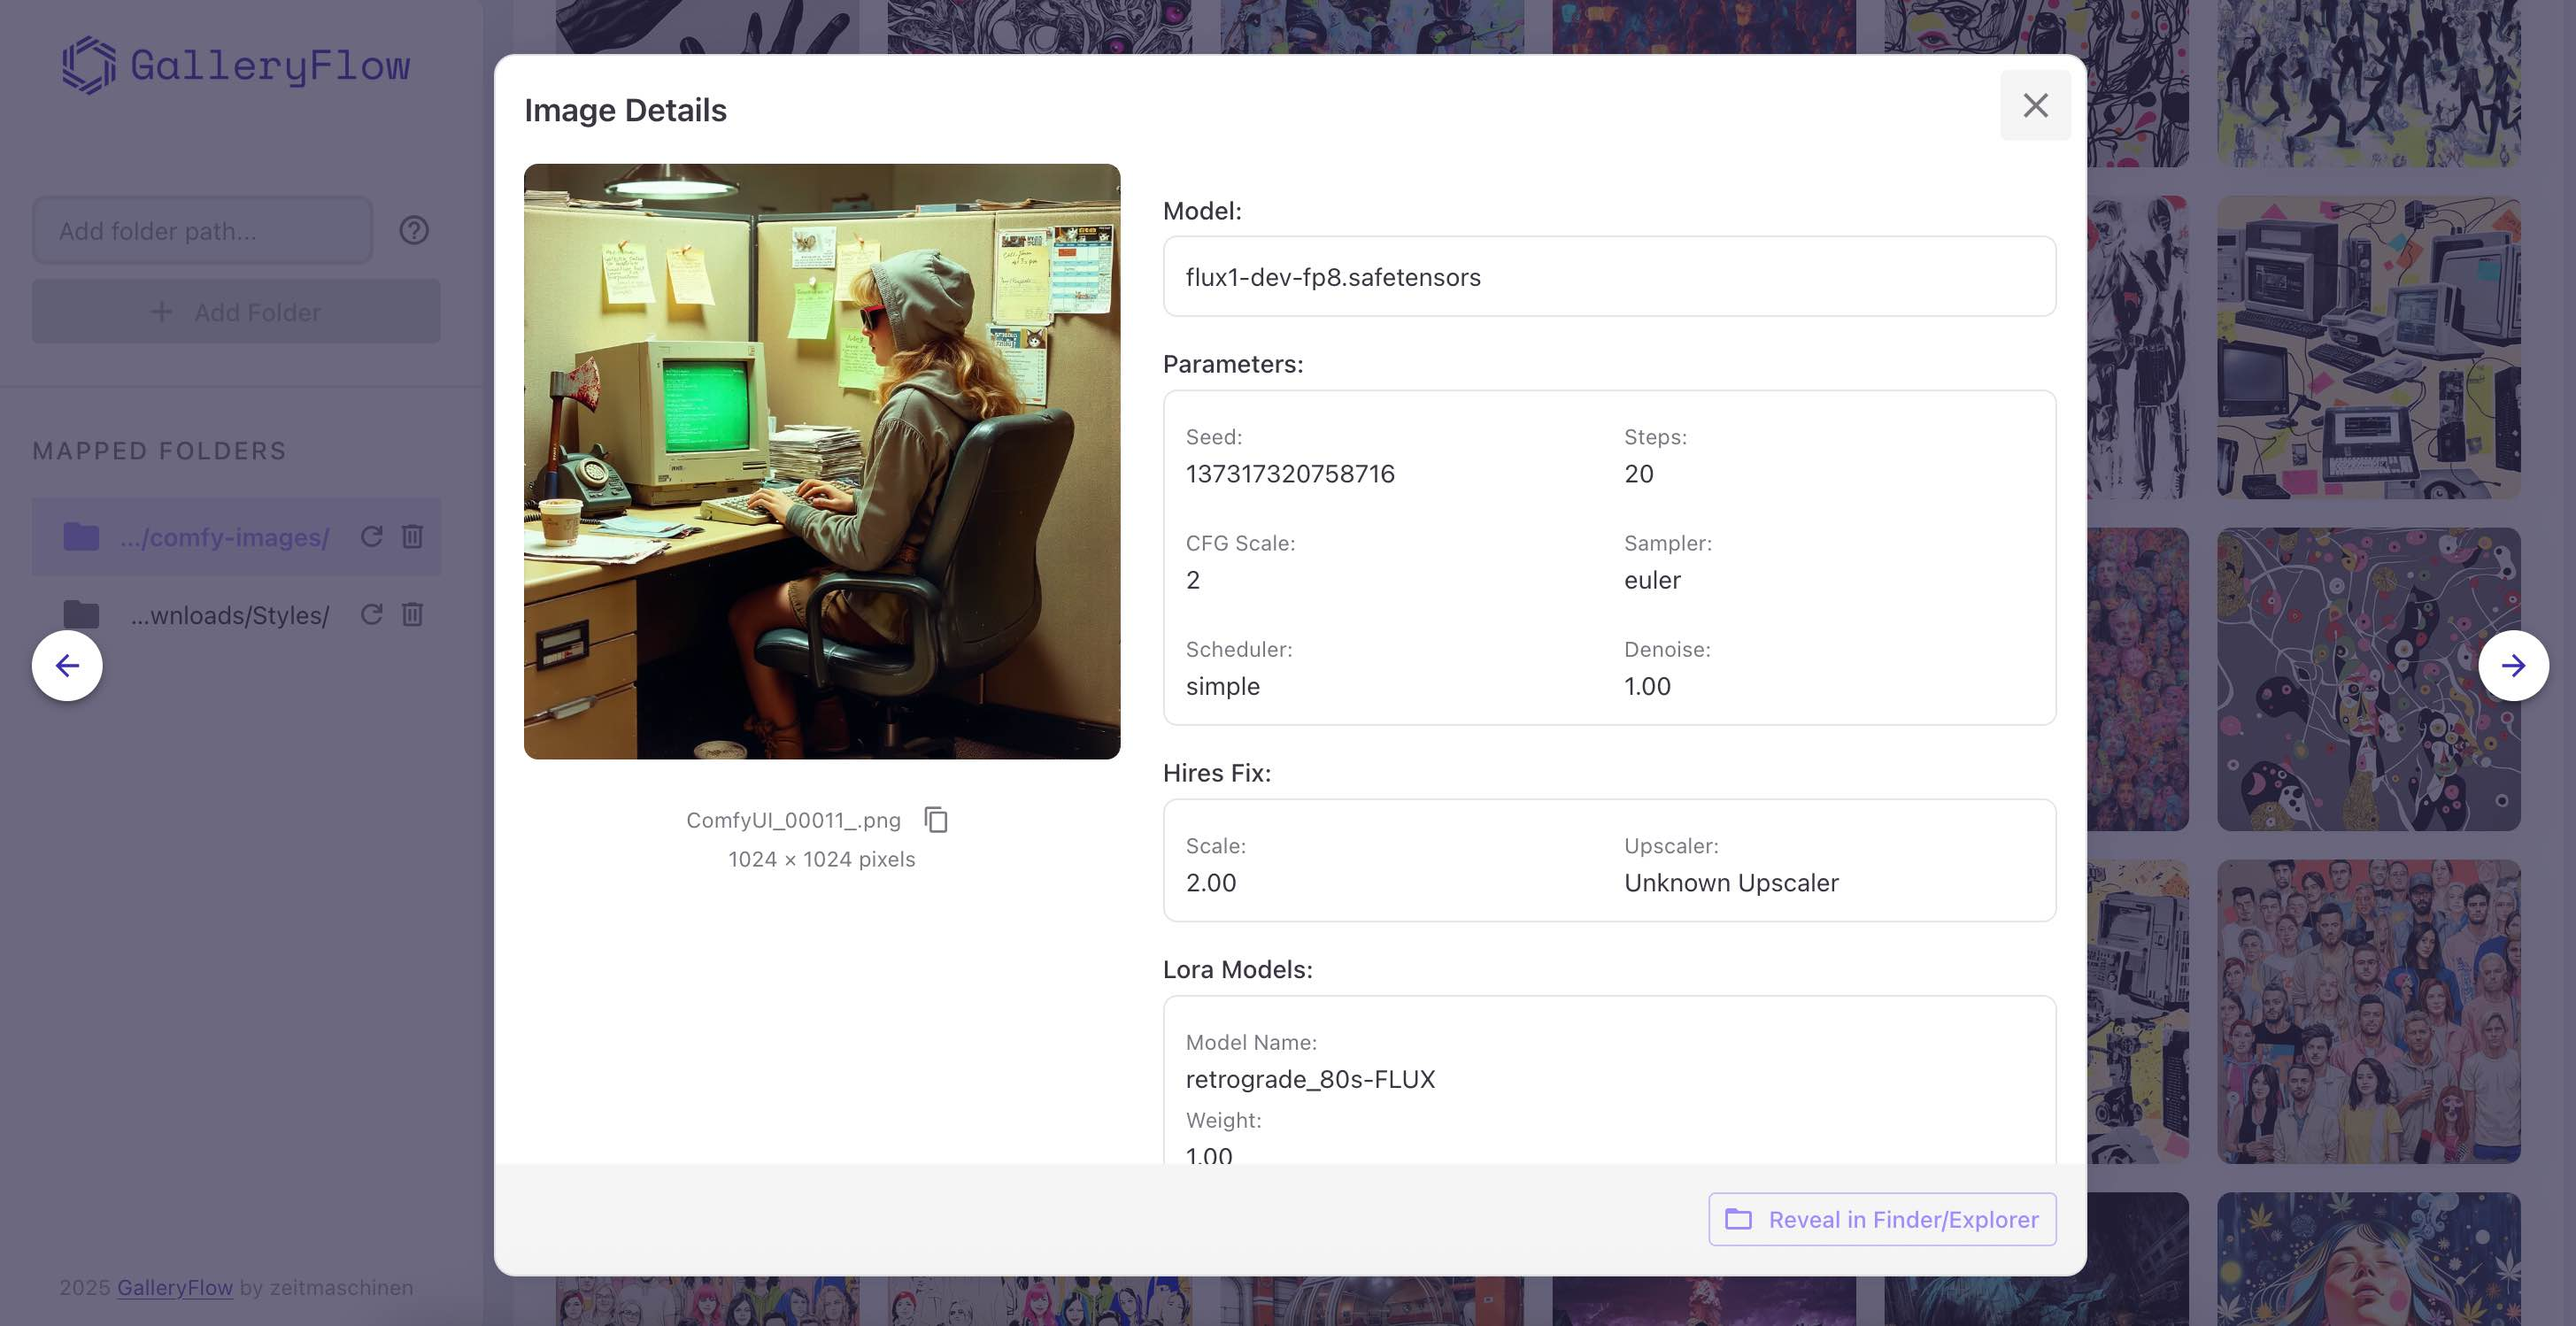
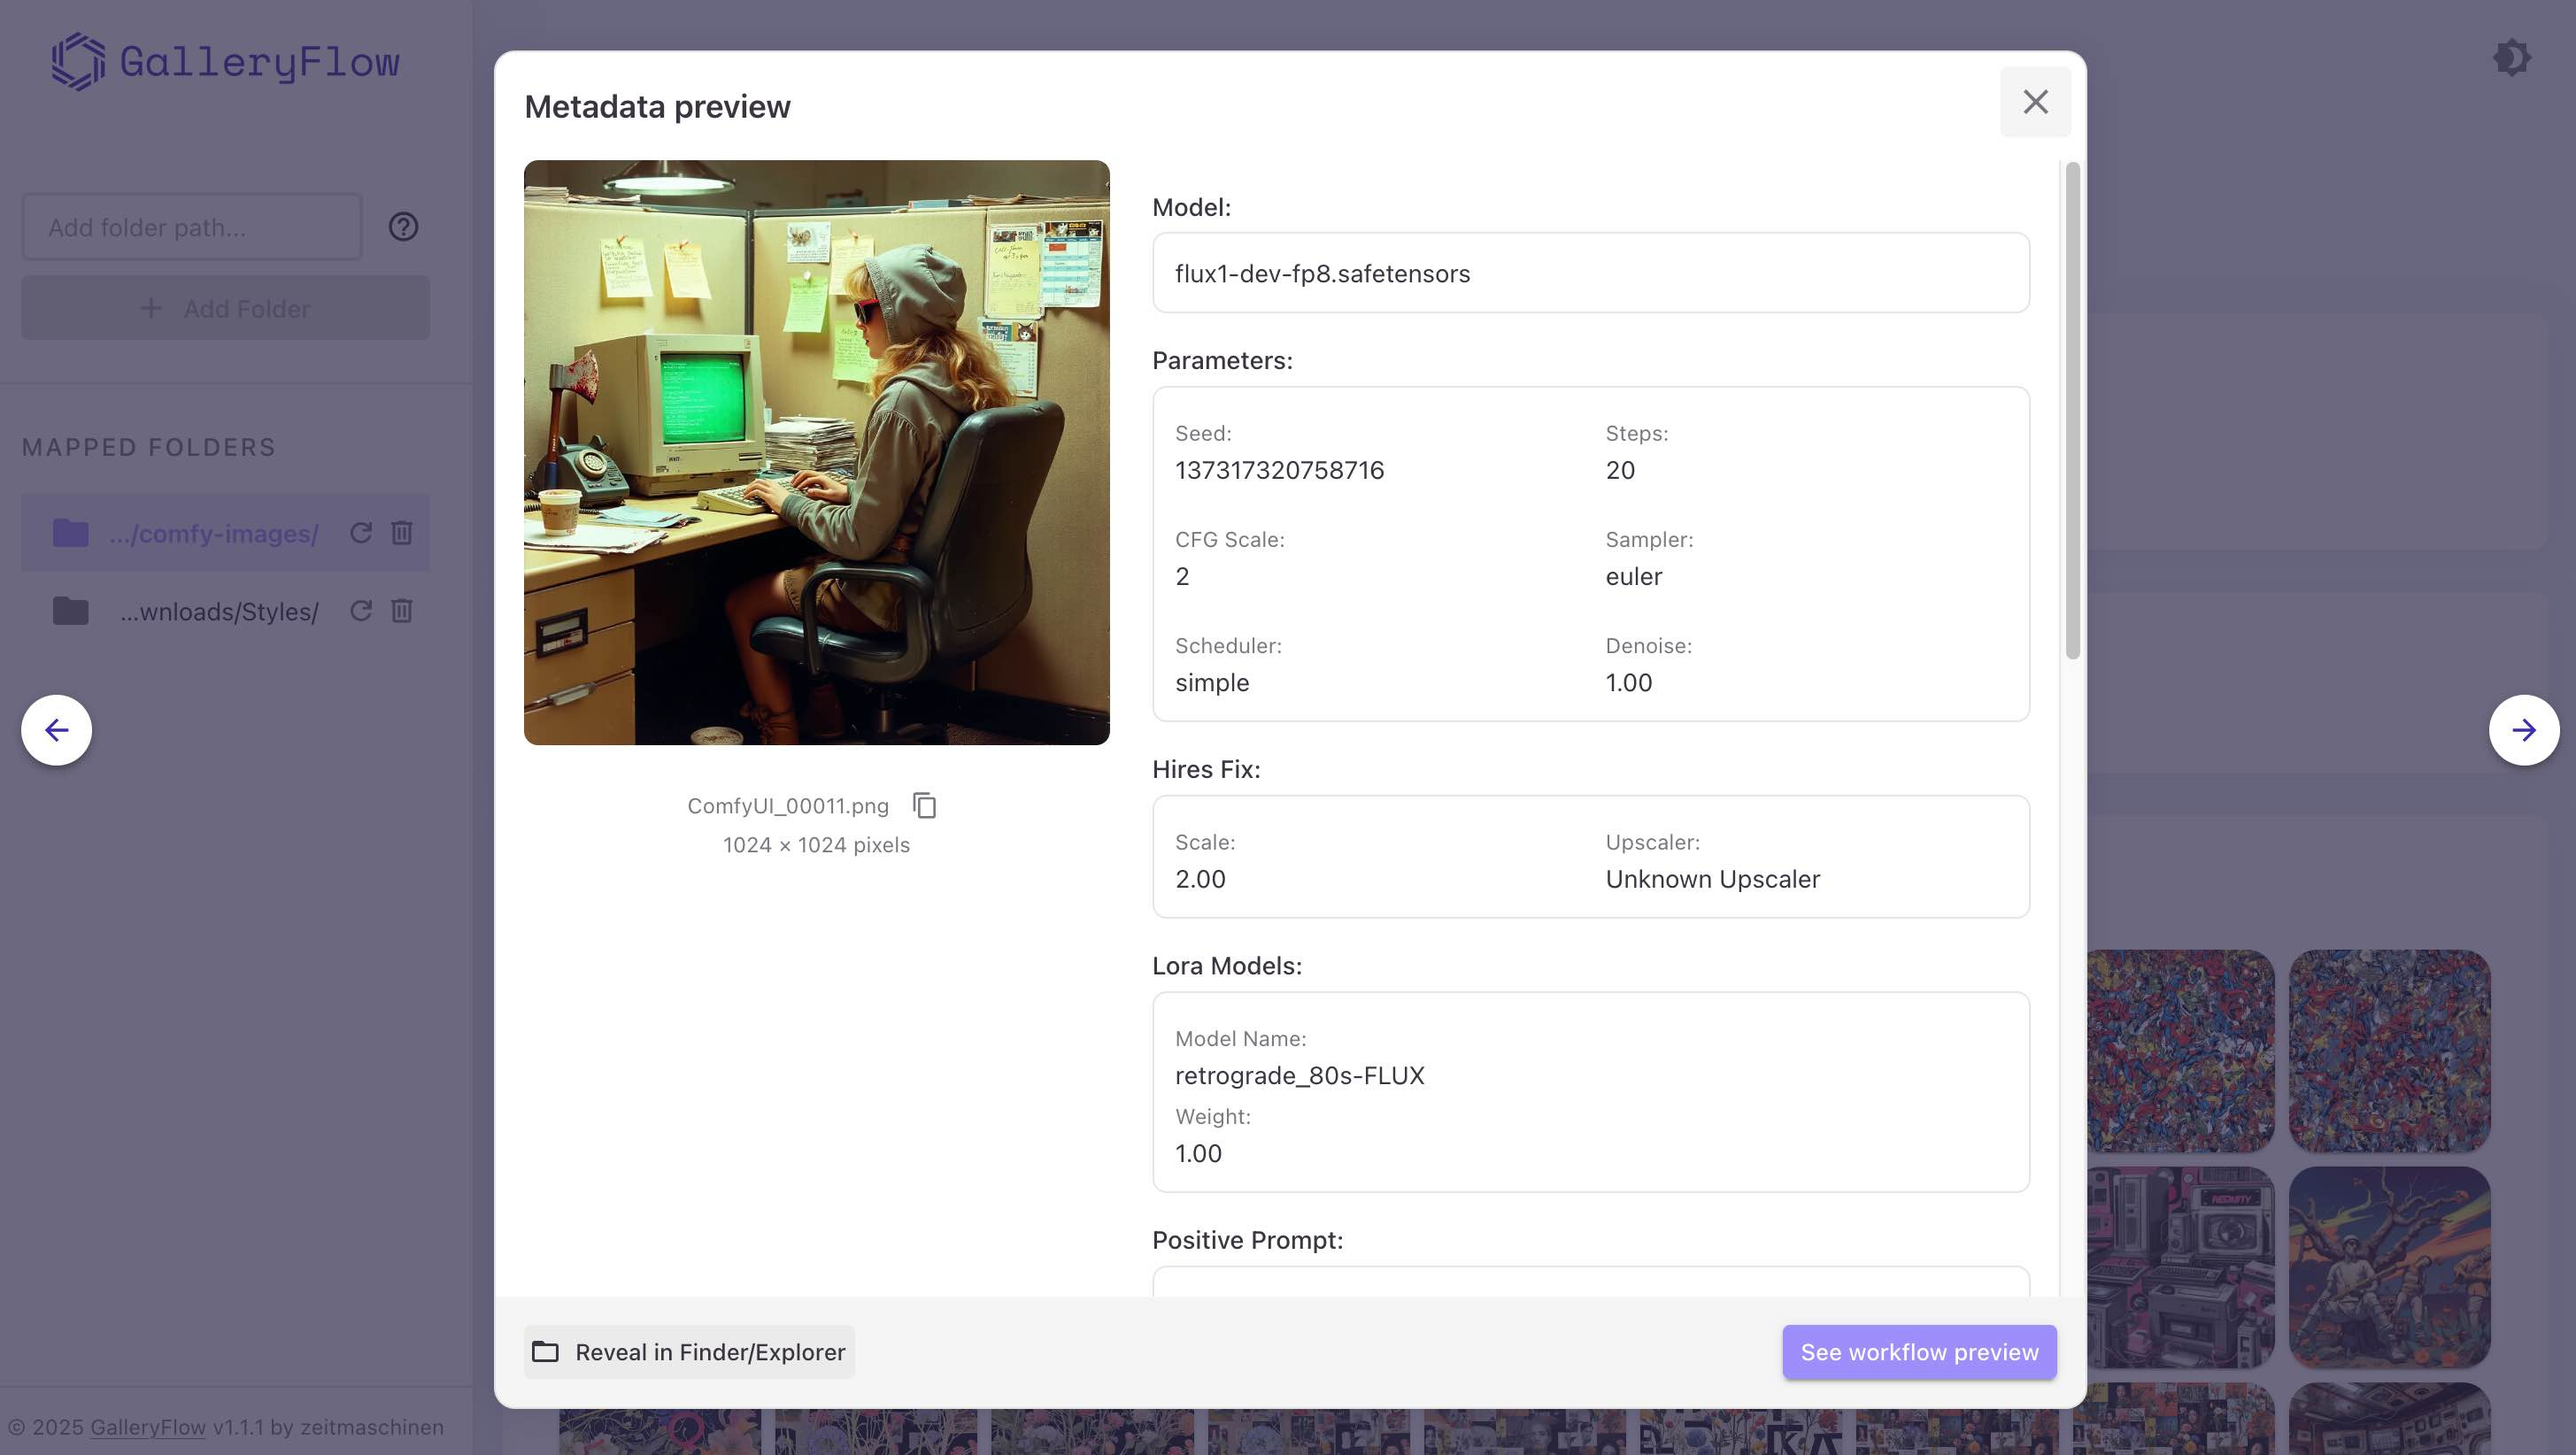
Update README screenshots

diff --git a/README.md b/README.md
@@ -21,7 +21,11 @@ You can connect to your ComfyUI output directory, customize sorting/filtering, s
 
 <br>
 
-![Gallery screenshot](frontend/docs/images/gallery.jpg)
+![Gallery screenshot](frontend/docs/images/gallery-light.jpg)
+
+<br>
+
+![Gallery screenshot](frontend/docs/images/gallery-dark.jpg)
 
 <br>
 
